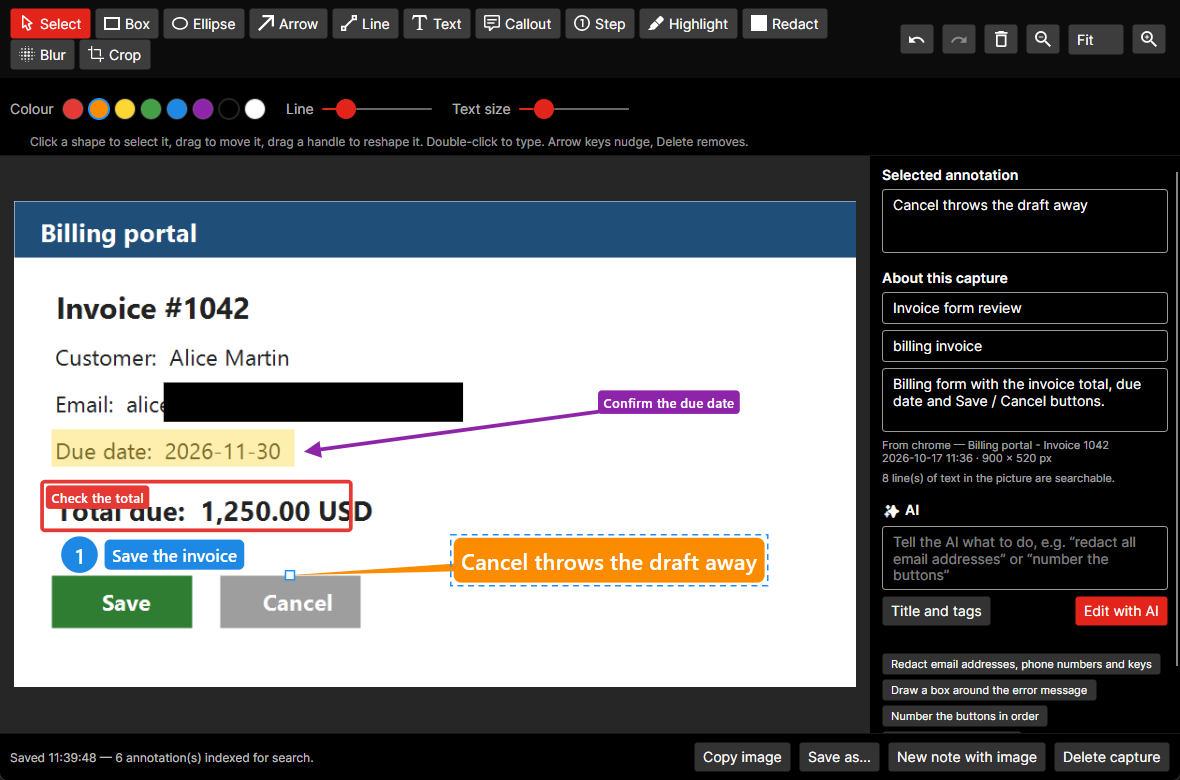
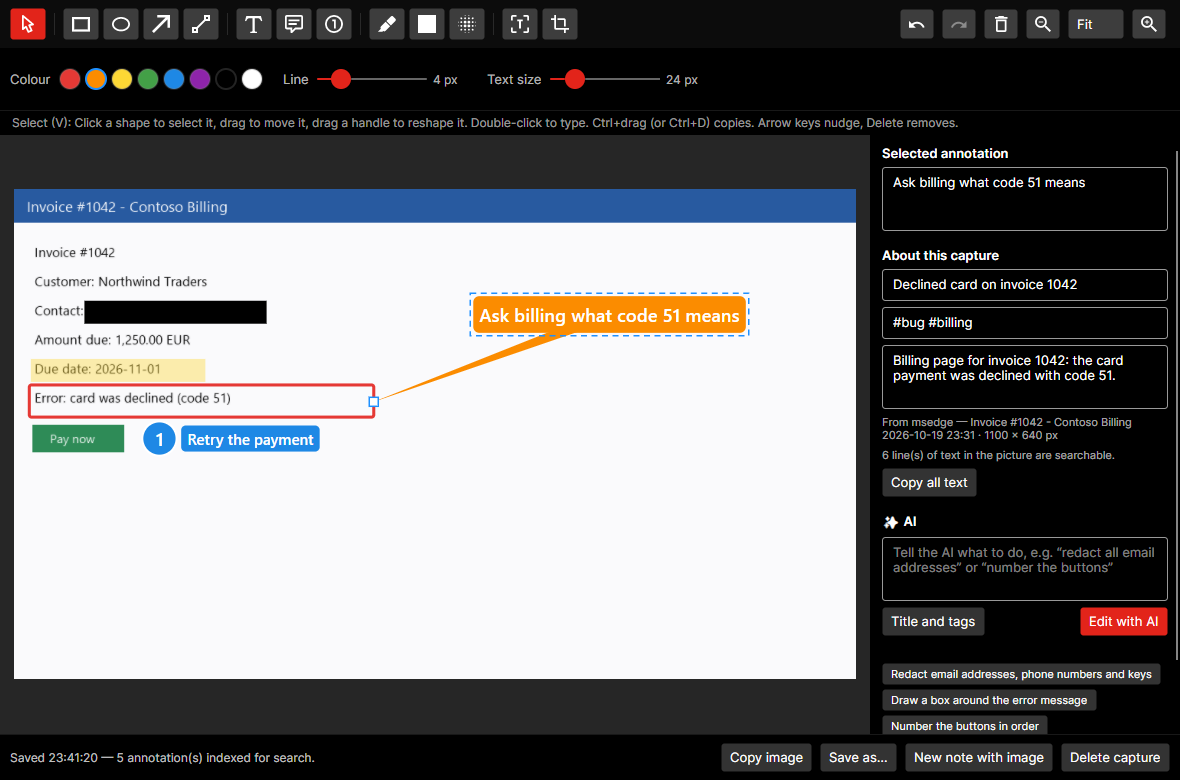
feat: enhance capture functionality and update documentation for clarity

diff --git a/README.md b/README.md
@@ -112,14 +112,15 @@ One search box (the Search tab, or Ctrl+F) looks through your apps, notes, scree
 
 ### Screenshots with annotations
 
-Press `Ctrl+Alt+C` anywhere (Windows; change it in **Settings → Capture**), or use **Captures** in the tray or main window. The screen freezes: drag a region, click the outlined window to take it, press `F` for everything, `Esc` to cancel. The picture opens in an editor, like Snagit:
+Press `Ctrl+Alt+C` anywhere (Windows; change it in **Settings → Capture**), or use **Captures** in the tray or main window. The screen freezes: drag a region, click the outlined window to take it, press `F` for everything, `Esc` or right-click to cancel. The picture opens in an editor, like Snagit:
 
 - **Tools**: box, ellipse, arrow, line, text, callout (a speech box pointing at an anchor), numbered step, highlight, **redact** (solid cover), **blur** (mosaic) and crop. Pick a colour, line width and text size; drag shapes to move them, drag the handles to reshape them, `Shift` keeps lines at 45° and boxes square. Undo and redo cover everything.
+- **Keys**: each tool has a letter (`V` select, `R` box, `E` ellipse, `A` arrow, `L` line, `T` text, `S` callout, `N` step, `H` highlight, `X` redact, `B` blur, `G` grab text, `C` crop; hover a tool to see it). Step, highlight, redact and blur stay on, so you can number 1, 2, 3 or black out several things in a row; `Esc` ends them. `Esc` in the text box goes back to the picture. `Ctrl+0` fits the picture, `Ctrl++` / `Ctrl+-` zoom.
 - **Words are searchable**: type text on any annotation, then add a title, tags and a description. Everything is saved automatically, and the original picture is never changed (except by crop), so annotations stay editable.
 - **Text in the picture** is read with the Windows OCR and indexed too, so you can find a screenshot by what is written in it. Turn it off in Settings → Capture.
-- **Find them again**: the **Captures** window shows a thumbnail grid with its own search, and the main search (`Ctrl+F`) lists captures with the matching words.
+- **Find them again**: the **Captures** window shows a thumbnail grid with its own search, and the main search (`Ctrl+F`) lists captures with the matching words. Right-click a thumbnail to copy or delete it without opening it.
 - **Use them**: copy the annotated picture, save it as a PNG, or make a new note holding the picture and its annotation words. You can also annotate a picture file or the picture on the clipboard.
-- **AI**: tell the AI what to do (“redact all email addresses”, “number the buttons”, “box the error message”). The AI reads text only, so it gets the OCR text with positions and the current annotations, and answers with changes; **Ctrl+Z** undoes them. **Title and tags** suggests a title, tags and a description from the text, and a capture saved without a title gets one automatically.
+- **AI**: tell the AI what to do (“redact all email addresses”, “number the buttons”, “box the error message”). The AI reads text only, so it gets the OCR text with positions and the current annotations, and answers with changes; **Ctrl+Z** undoes them. **Title and tags** suggests a title, tags and a description from the text, and a capture closed without a title gets one automatically when the AI title option in **Settings → AI** is on.
 
 ![Annotating a screenshot: boxes, arrow, steps, callout, redaction and the details panel](docs/images/screenshotCaptureEditor.png)
 

diff --git a/CLAUDE.md b/CLAUDE.md
@@ -143,6 +143,9 @@ Notes, images and the work log live in `DataDir`: the `DataFolder` setting (e.g.
   - Text, arrow and callout labels: an arrow / line starts inside its label (centred on the tail); a callout's pointer starts at its box centre under the box.
   - Don't set `FormattedText.MaxTextWidth = 0` for "no wrap": the text disappears. Leave it unset.
   - `TextChanged` on boxes set while opening fires late: compare with the saved values before marking dirty. Tool buttons use `IsCheckedChanged` (guarded by `_syncingTools`) so UI Automation can select them.
+  - Tools are one table (`Tools`: icon, letter key, group, hint); a letter picks a tool only outside text boxes. `IsRepeatTool` (step, highlight, redact, blur) keeps the tool after a shape; the others go back to Select (`ToolDone`). An empty Text annotation is removed when it loses the selection (it would be invisible).
+  - Delete a capture with `App.DeleteCapture`: it closes the open editor through `Discard()` first, otherwise its autosave on close writes the capture back. The automatic AI title on close follows `AiAutoTitle`, like notes.
+  - The gallery ignores `CaptureService.Changed` while hidden (an open editor saves about every second) and keeps decoded thumbnails by file time.
   - The default hotkey `Ctrl+Alt+C` was chosen because `Ctrl+Alt+S` and `Ctrl+Alt+A` are taken on the author's PC; `HotkeyService` has numbered slots (0 = Ask AI, 1 = capture).
   - Test with `TOOLSHED360_DATA` on generated PNGs; a test hotkey press also reaches other screenshot tools the user runs.
 - **Pictures:** a picture on its own line is a `BlockKind.Image` block (`IsAtomic`, like a divider: the caret skips it, Backspace/Delete next to it remove it). The editor decodes at most 1600 px wide and disposes bitmaps on `Load` / row removal. Paste prefers text over a picture (Excel and browsers put both on the clipboard).
